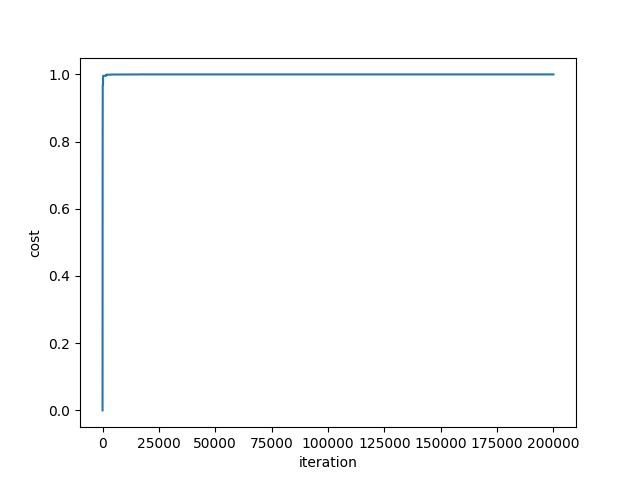
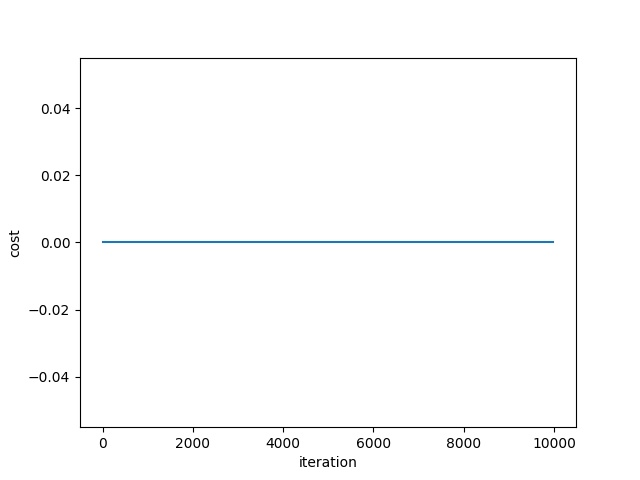
checkpoint

diff --git a/random/maximize_function/maximize-function.py b/random/maximize_function/maximize-function.py
@@ -19,8 +19,9 @@ class Function(object):
     def move(self):
         self.last_x = float(self.x)
         self.last_y = float(self.y)
-        self.x += np.random.randn()
-        self.y += np.random.randn()
+        normal_values = np.random.normal(0, 10, 2)
+        self.x += normal_values[0]
+        self.y += normal_values[1]
 
     def revert_move(self):
         self.x, self.last_x = float(self.last_x), float(self.x)
@@ -70,35 +71,40 @@ class MaximizeFuntionSolver:
 
             function.move()
             new_cost = function.cost()
-            if new_cost < cost:
+            deltaCost = new_cost - cost
+            if not deltaCost > 0:
                 function.revert_move()
 
         return function, steps, costs
 
 
 if __name__ == '__main__':
-    seeds = [[2, 2], [7, -10]]
-    for [x, y] in seeds:
-        solver = MaximizeFuntionSolver(x, y)
+    while True:
+        # seeds = [[2, 2], [7, -30]]
+        seeds = [[100, 100]]
+        for [x, y] in seeds:
+            solver = MaximizeFuntionSolver(x, y)
 
-        start_time = time.time()
-        function, steps, costs = solver.HillClimbing(200000)
-        print(function)
-        with open('results/HillClimbing/log.txt', 'w') as f:
-            f.write("RESULT\n{0}\nCOST: {1}\n{2} seconds\n".format(function, function.cost(), round((time.time() - start_time), 2)))
-        plt.cla()
-        plt.plot(steps, costs)
-        plt.ylabel('cost')
-        plt.xlabel('iteration')
-        plt.savefig('results/HillClimbing/log.jpg')
+            start_time = time.time()
+            function, steps, costs = solver.HillClimbing(10000)
+            print(function)
+            with open('results/HillClimbing/log.txt', 'w') as f:
+                f.write("RESULT\n{0}\nCOST: {1}\n{2} seconds\n".format(function, function.cost(), round((time.time() - start_time), 2)))
+            plt.cla()
+            plt.plot(steps, costs)
+            plt.ylabel('cost')
+            plt.xlabel('iteration')
+            plt.savefig('results/HillClimbing/log.jpg')
 
-        start_time = time.time()
-        function, steps, costs = solver.SimulatedAnnealing(200000)
-        print(function)
-        with open('results/SimulatedAnnealing/log.txt', 'w') as f:
-            f.write("RESULT\n{0}\nCOST: {1}\n{2} seconds\n".format(function, function.cost(), round((time.time() - start_time), 2)))
-        plt.cla()
-        plt.plot(steps, costs)
-        plt.ylabel('cost')
-        plt.xlabel('iteration')
-        plt.savefig('results/SimulatedAnnealing/log.jpg')
+            start_time = time.time()
+            function, steps, costs = solver.SimulatedAnnealing(10000)
+            print(function)
+            with open('results/SimulatedAnnealing/log.txt', 'w') as f:
+                f.write("RESULT\n{0}\nCOST: {1}\n{2} seconds\n".format(function, function.cost(), round((time.time() - start_time), 2)))
+            plt.cla()
+            plt.plot(steps, costs)
+            plt.ylabel('cost')
+            plt.xlabel('iteration')
+            plt.savefig('results/SimulatedAnnealing/log.jpg')
+
+        print('***')
